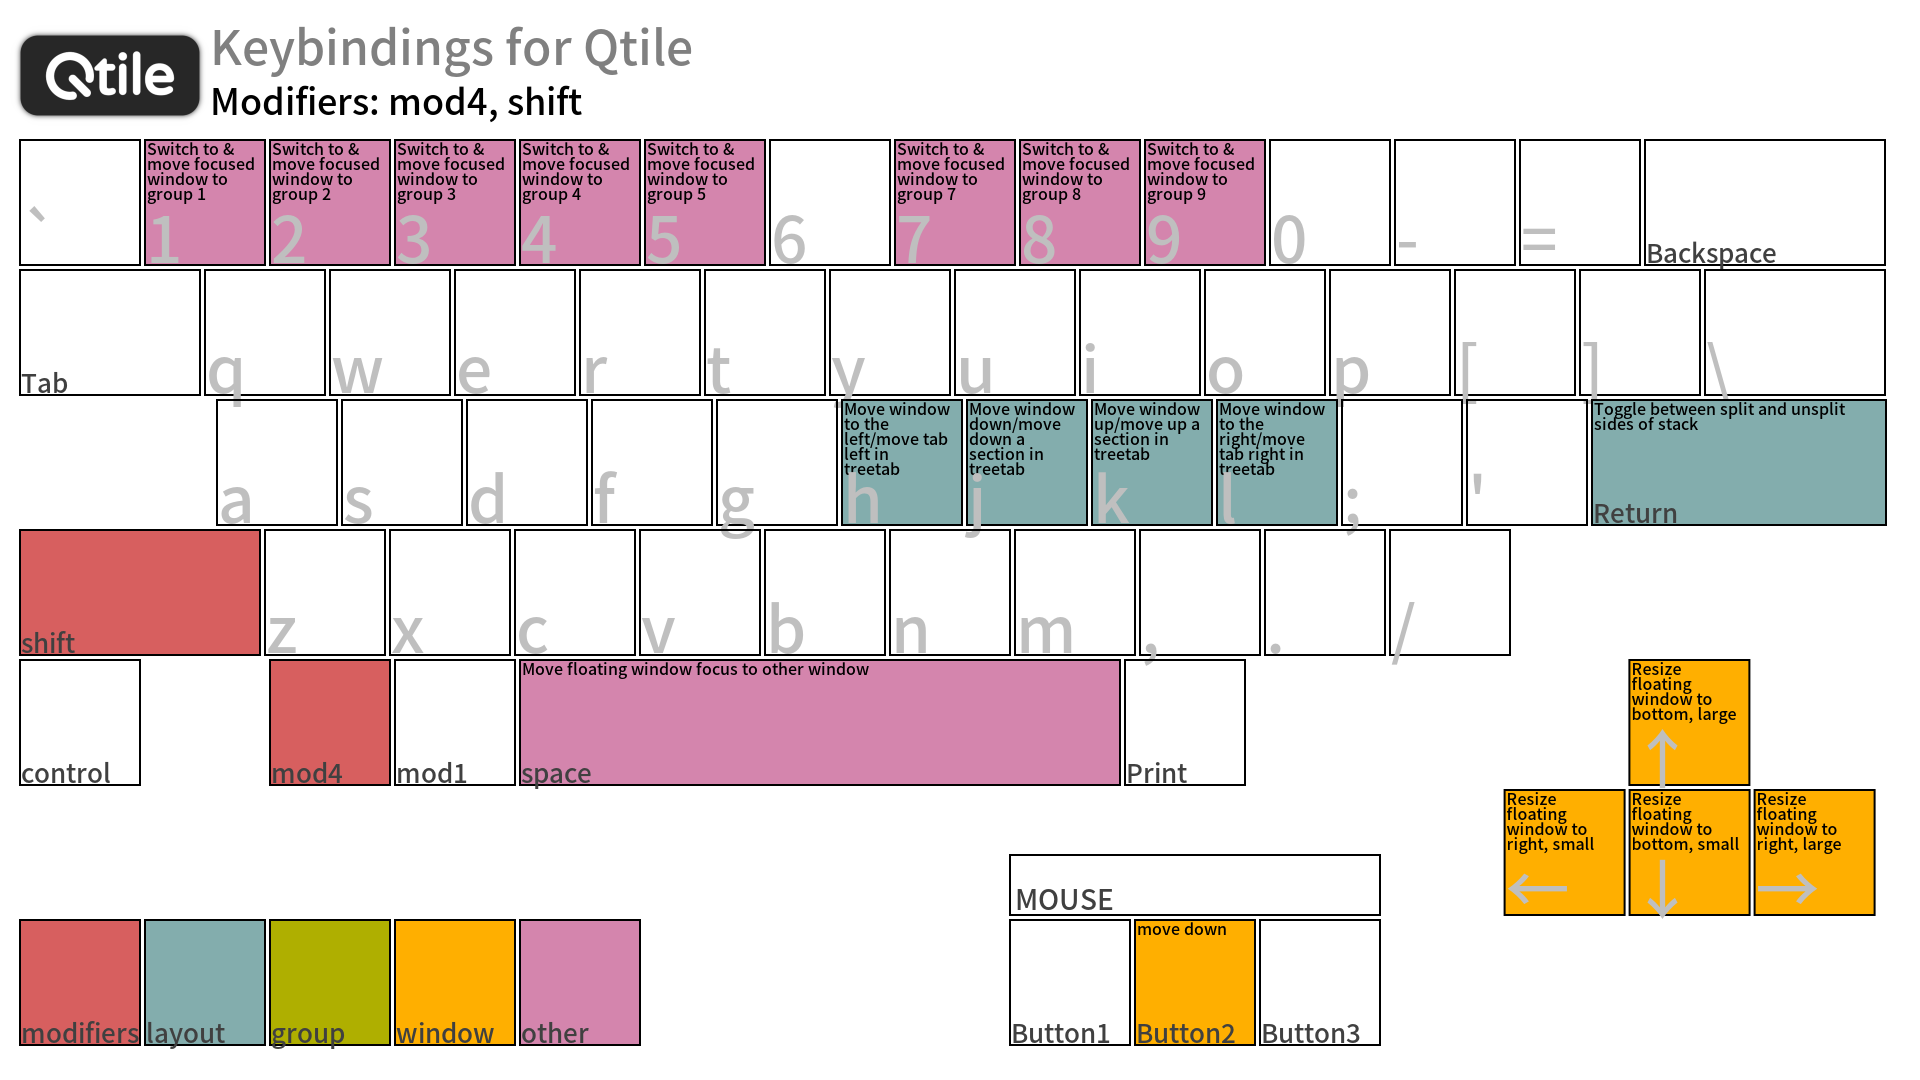
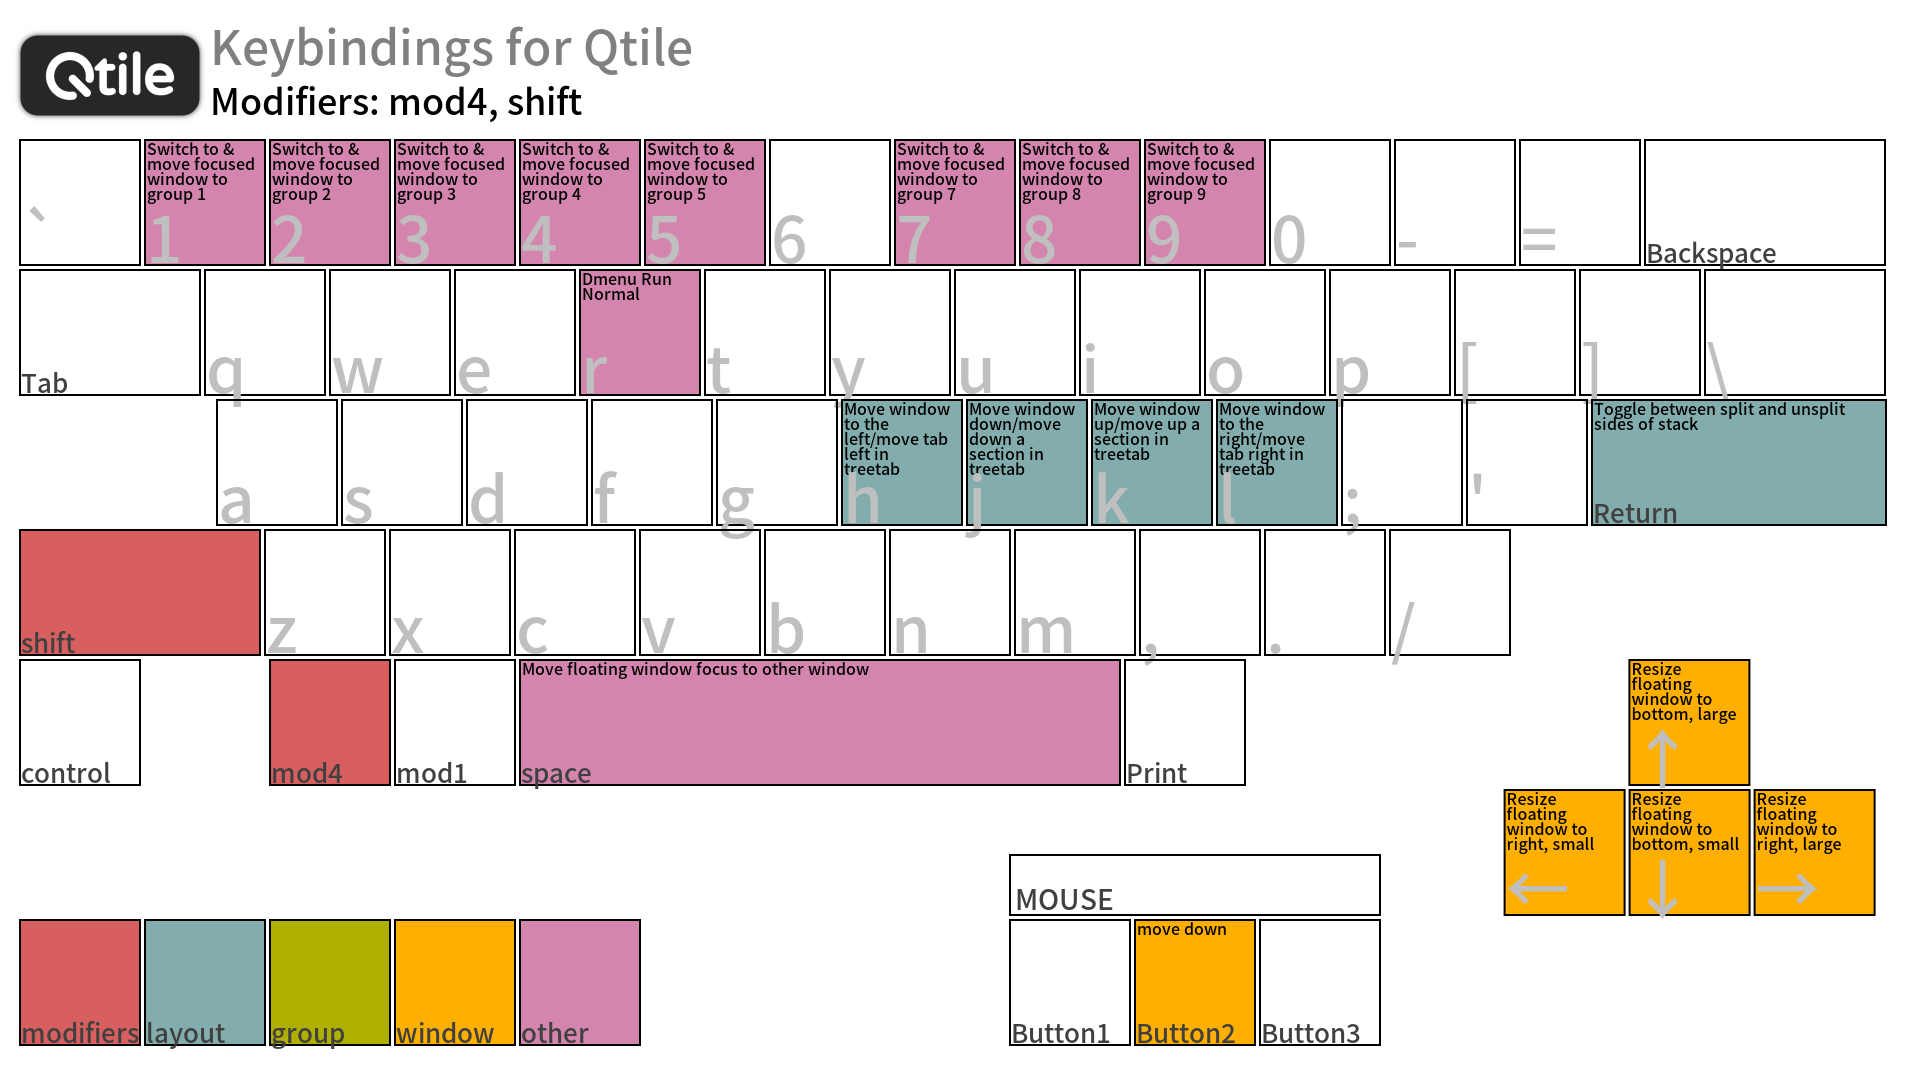
Terminal key bindings revised, etc

Changed region(s): [[0.2812, 0.2444, 0.375, 0.3667]]

diff --git a/modules/keys.py b/modules/keys.py
@@ -9,7 +9,7 @@ from libqtile.lazy import lazy
 from libqtile.config import Key, KeyChord
 #
 from modules.variables import MOD4, CONTROL, SHIFT, TAB, SPACE, RETURN, UP, DOWN, LEFT, RIGHT
-from modules.dmenu import dmenu_normal, dmenu_power, dmenu_terminal, dmenu_window
+from modules.dmenu import dmenu_normal, dmenu_power, dmenu_window
 from modules.popup import show_power_menu
 from modules.functions import focus_next_floating, spawn_by_group
 
@@ -86,16 +86,16 @@ keys = [
   Key([MOD4], 't', lazy.window.toggle_floating(),   desc = 'Toggle floating on the focused window'),
   Key([MOD4], 'w', lazy.window.kill(),              desc = 'Kill focused window'),
   Key([MOD4], 'q', lazy.function(show_power_menu),  desc = 'Popup Power Menu'),
-  Key([MOD4], 'r', lazy.spawncmd(),                 desc = 'Spawn a command using a prompt widget'),
   Key([MOD4], 'b', lazy.hide_show_bar(position = 'bottom'), desc = 'Toggle bottom bar'),
 
 
-  Key([MOD4, CONTROL], 'r', lazy.reload_config(), desc = 'Reload the config'),
+  Key([MOD4],          'r', lazy.spawncmd(),                  desc = 'Spawn a command using a prompt widget'),
+  Key([MOD4, CONTROL], 'r', lazy.reload_config(),             desc = 'Reload the config'),
+  Key([MOD4, SHIFT],   'r', lazy.run_extension(dmenu_normal), desc = 'Dmenu Run Normal'),
 
-  Key([MOD4, CONTROL], 'a', lazy.run_extension(dmenu_window),   desc = 'Dmenu All Tasks'),
-  Key([MOD4, CONTROL], 'd', lazy.run_extension(dmenu_normal),   desc = 'Dmenu Run Normal'),
-  Key([MOD4, CONTROL], 'm', lazy.run_extension(dmenu_power),    desc = 'Dmenu Power Menu'),
-  Key([MOD4, CONTROL], 't', lazy.run_extension(dmenu_terminal), desc = 'Dmenu All Terminal'),
+
+  Key([MOD4, CONTROL], 'a', lazy.run_extension(dmenu_window), desc = 'Dmenu All Tasks'),
+  Key([MOD4, CONTROL], 'q', lazy.run_extension(dmenu_power),  desc = 'Dmenu Power Menu'),
 
 
   Key([MOD4], TAB,    lazy.next_layout(),            desc = 'Toggle between layouts'),
@@ -121,7 +121,6 @@ keys = [
   KeyChord([MOD4], 'z', [
       # TODO: brave --incognito
       # TODO: My customized gen-keybinging-img does not hook mod+z, shift+b
-      Key([], 'a', lazy.spawn('alacritty'),   desc = 'Run Alacritty'),
       Key([], 'b', lazy.spawn('brave'),       desc = 'Run Brave'),
       Key([], 'c', lazy.spawn('claws-mail'),  desc = 'Run Claws mail'),
       Key([], 'g', lazy.spawn('gimp'),        desc = 'Run Gimp'),
@@ -141,12 +140,25 @@ keys = [
 
 
   KeyChord([MOD4], 'x', [
-      Key([], 'a', lazy.group['scratchpad'].dropdown_toggle('alacritty'), desc = 'Scratchpad Alacritty'),
-      Key([], 'm', lazy.group['scratchpad'].dropdown_toggle('mousepad'),  desc = 'Scratchpad Mousepad'),
-      Key([], 'n', lazy.group['scratchpad'].dropdown_toggle('notable'),   desc = 'Scratchpad Notable'),
+      Key([], 'm', lazy.group['scratchpad'].dropdown_toggle('mousepad'), desc = 'Scratchpad Mousepad'),
+      Key([], 'n', lazy.group['scratchpad'].dropdown_toggle('notable'),  desc = 'Scratchpad Notable'),
     ],
     mode = True,
     name = 'Scratchpad',
+  ),
+
+
+  KeyChord([MOD4], 'c', [
+      # NOTE: When running anything other than Kitty, pressing Mod4+Return launches xfce4-terminal.
+      # NOTE: The reason is unknown.
+      Key([], 'a', lazy.spawn('alacritty'),      desc = 'Run Alacritty'),
+      Key([], 'g', lazy.spawn('ghostty'),        desc = 'Run Ghostty'),
+      Key([], 'k', lazy.spawn('kitty'),          desc = 'Run Kitty'),
+      Key([], 'w', lazy.spawn('wezterm'),        desc = 'Run Wezterm'),
+      Key([], 'x', lazy.spawn('xfce4-terminal'), desc = 'Run Xfce4-terminal'),
+    ],
+    mode = True,
+    name = 'Terminal',
   ),
 
 

diff --git a/modules/dropdowns.py b/modules/dropdowns.py
@@ -23,9 +23,8 @@ dropdown_common_settings = {
 }
 
 dropdowns = [
-  DropDown('alacritty', ['alacritty'], **dropdown_common_settings),
-  DropDown('mousepad',  ['mousepad'],  **dropdown_common_settings),
-  DropDown('notable',   ['notable'],   **dropdown_common_settings),
+  DropDown('mousepad', ['mousepad'], **dropdown_common_settings),
+  DropDown('notable',  ['notable'],  **dropdown_common_settings),
 ]
 
 

diff --git a/modules/dmenu.py b/modules/dmenu.py
@@ -53,19 +53,6 @@ dmenu_power = extension.CommandSet(
 )
 
 
-dmenu_terminal = extension.CommandSet(
-  commands = {
-    'xfce4-terminal': 'xfce4-terminal',
-    'alacritty':      'alacritty',
-    'kitty':          'kitty',
-    'wezterm':        'wezterm',
-    'ghostty':        'ghostty',
-  },
-
-  **dmenu_setting,
-)
-
-
 dmenu_window = extension.WindowList(
   **dmenu_setting,
 )

diff --git a/modules/variables.py b/modules/variables.py
@@ -22,12 +22,6 @@ LEFT = 'Left'
 RIGHT = 'Right'
 
 
-terminal_main = 'kitty'
-terminal_sub1 = 'alacritty'
-terminal_sub8 = 'wezterm'
-terminal_sub9 = 'xfce4-terminal'
-
-
 autostart_sh = os.path.expanduser('~/.config/qtile/scripts/autostart.sh')
 shutdown_sh = os.path.expanduser('~/.config/qtile/scripts/shutdown.sh')
 

diff --git a/modules/floating.py b/modules/floating.py
@@ -42,10 +42,7 @@ floating_layout = layout.Floating(
     Match(wm_class = 'vlc'),
 
     Match(wm_class = 'Yad'),
-
-    Match(wm_class = 'alacritty'),
-    Match(wm_class = 'wezterm'),
-    ]
+  ]
 )
 
 
